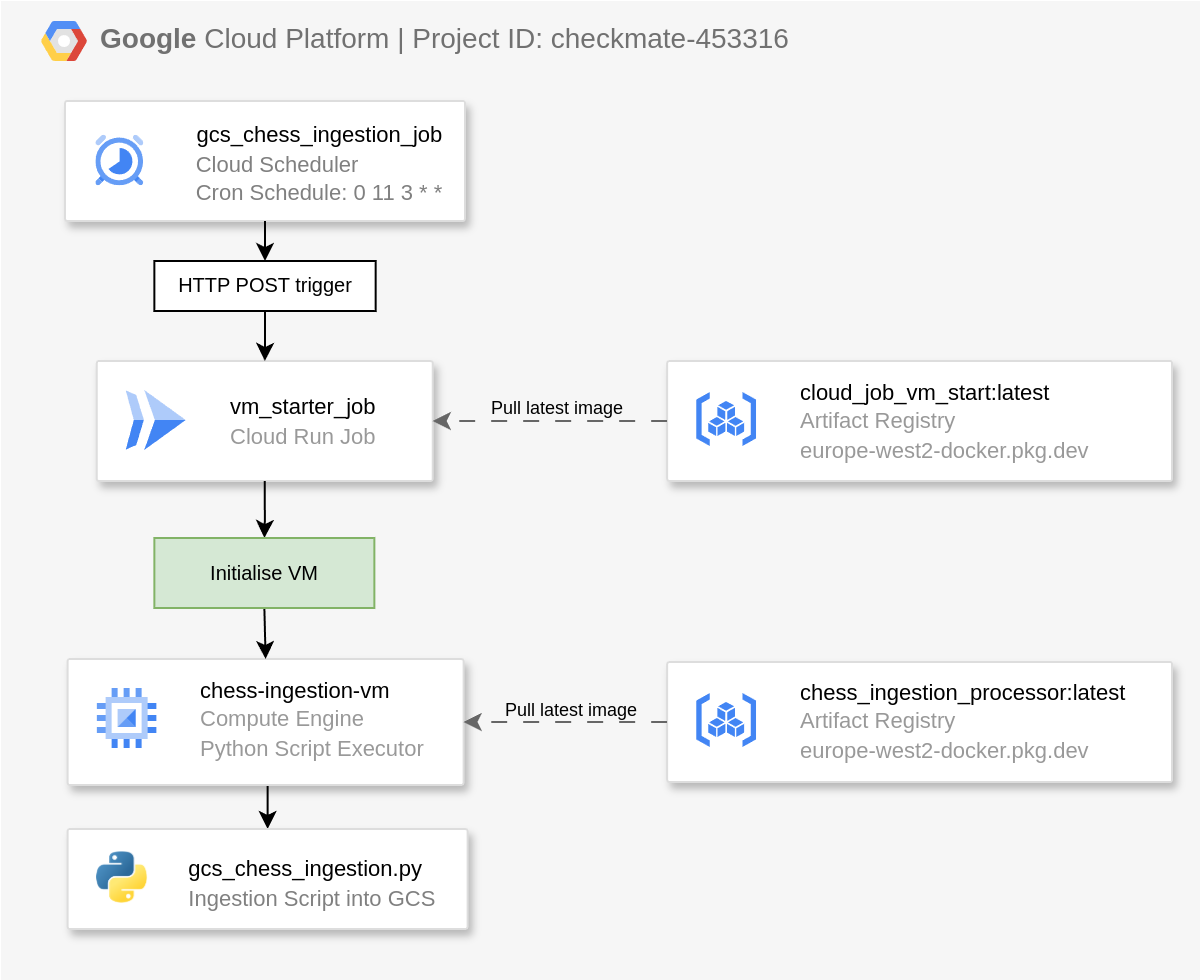
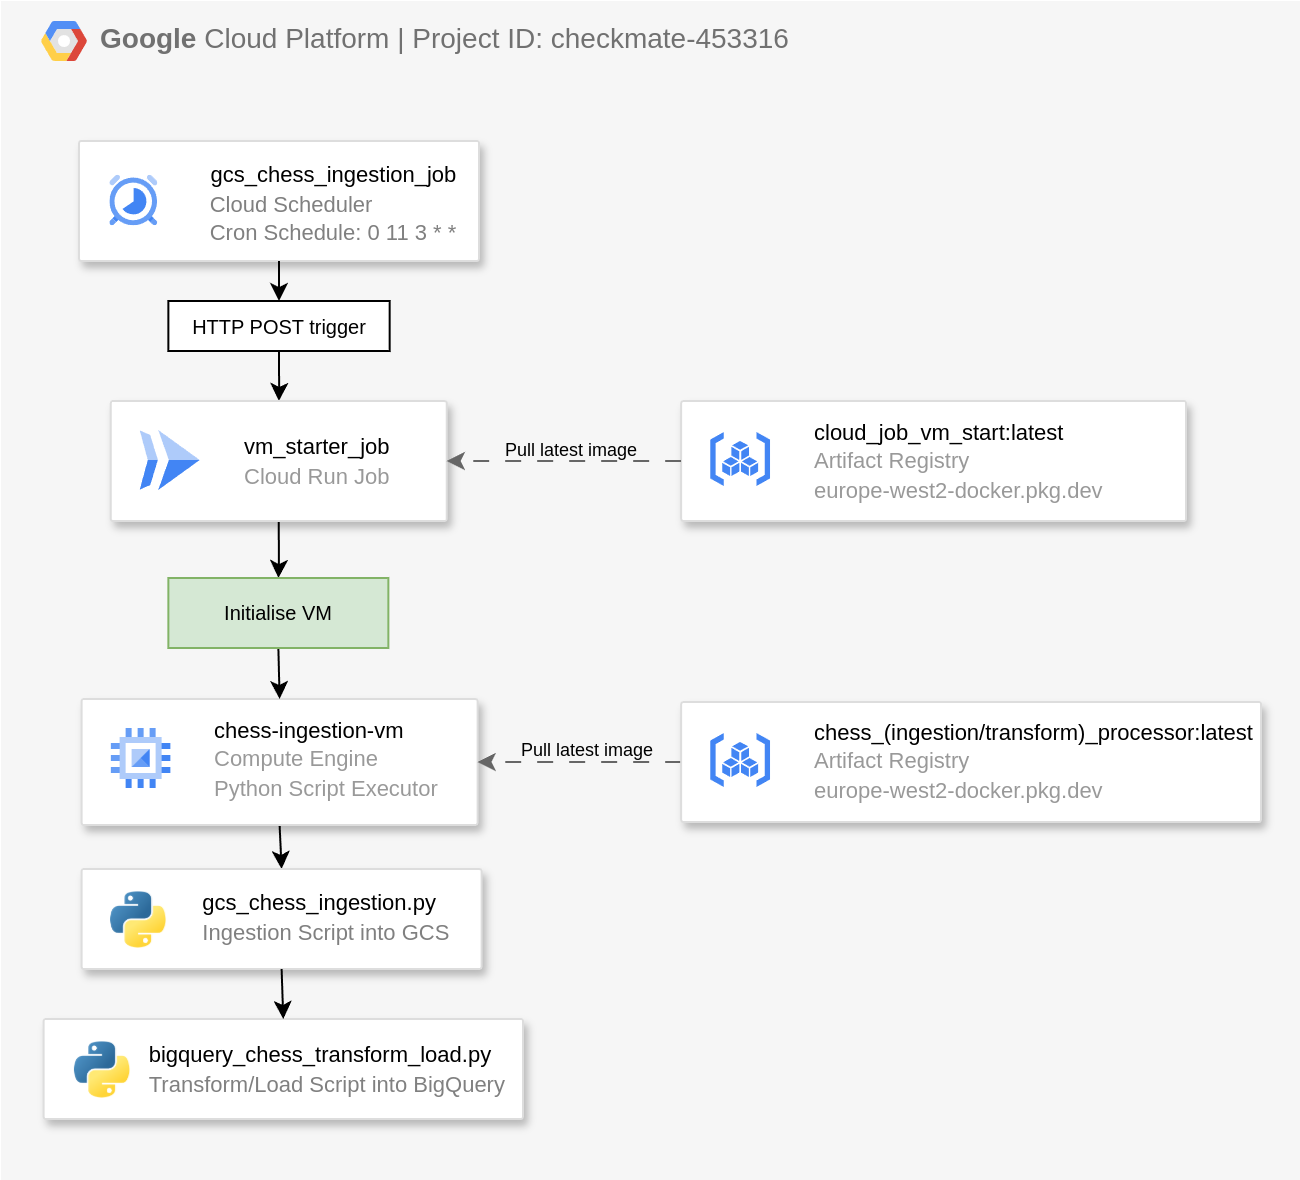
adding transform diagram

diff --git a/scripts/bigquery_chess_transform_load.py b/scripts/bigquery_chess_transform_load.py
@@ -125,14 +125,23 @@ def _(initialise_cloud_logger, log_printer):
 
 @app.cell
 def _(
-    bigquery,
     check_bigquery_dataset_exists,
-    check_bigquery_table_exists,
     create_bigquery_dataset,
-    create_bigquery_table,
     dataset_id,
-    dataset_name,
     location,
+    logger,
+):
+    if check_bigquery_dataset_exists(dataset_id, logger) == False:
+        create_bigquery_dataset(dataset_id, location)
+    return
+
+
+@app.cell
+def _(
+    bigquery,
+    check_bigquery_table_exists,
+    create_bigquery_table,
+    dataset_name,
     logger,
     project_id,
 ):
@@ -147,9 +156,6 @@ def _(
     ]
     loading_time_partitioning_field ="gcs_game_month"
 
-    if check_bigquery_dataset_exists(dataset_id, logger) == False:
-        create_bigquery_dataset(dataset_id, location)
-
     if check_bigquery_table_exists(table_id_loading_completed, logger) == False:
         create_bigquery_table(table_id_loading_completed, schema_loading_completed, logger, loading_time_partitioning_field)
     return (
@@ -162,13 +168,9 @@ def _(
 @app.cell
 def _(
     bigquery,
-    check_bigquery_dataset_exists,
     check_bigquery_table_exists,
-    create_bigquery_dataset,
     create_bigquery_table,
-    dataset_id,
     dataset_name,
-    location,
     logger,
     project_id,
 ):
@@ -209,9 +211,6 @@ def _(
         bigquery.SchemaField(name="opening", field_type="STRING",          mode="REQUIRED", description="The name of the chess opening played"),
     ]
     games_time_partitioning_field ="game_date"
-
-    if check_bigquery_dataset_exists(dataset_id, logger) == False:
-        create_bigquery_dataset(dataset_id, location)
 
     if check_bigquery_table_exists(table_id_games, logger) == False:
         create_bigquery_table(table_id_games, schema_games, logger, games_time_partitioning_field)

diff --git a/README.md b/README.md
@@ -33,6 +33,7 @@ The project is segmented into the following directories which contain the follow
 | :------------- | :------------- |
 | **scripts/**   | Core python scripts/notebooks to process chess data  |
 | **scripts/cloud_functions/**   | Python Functions for instantiating or controlling GCP resources  |
+| **docker/**   | Contains dockerfiles to define toolng environment for running data deployment pipeline  |
 | **functions/** | Functions which are imported into the core data processing scripts  |
 | **inputs/** | Input parameter files for passing into core data processing scripts |
 | **diagrams/** | Illustrations for architectural design  |
@@ -105,10 +106,16 @@ This is a high-level view of the key components in the pipeline architecture and
     <img src="https://github.com/Filpill/chess_analysis/blob/main/diagrams/architecture/exports/pipeline_architecture.png " alt="drawing" width="800"/>
 </p>
 
-
 ## Ingestion Dataflow
+The following flow chart illustrates how data is processed when ingesting data into GCS:
 <p align = center>
     <img src="https://github.com/Filpill/chess_analysis/blob/main/diagrams/architecture/exports/ingestion_dataflow.png " alt="drawing" width="800"/>
+</p>
+
+## Transform/Load Dataflow
+The following flow chart illustrates how data is processed when transforming and loading data from GCS to BigQuery:
+<p align = center>
+    <img src="https://github.com/Filpill/chess_analysis/blob/main/diagrams/architecture/exports/transform_dataflow.png " alt="drawing" width="800"/>
 </p>
 
 ## Chess Analysis
